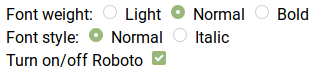
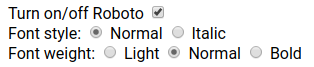
update font guide so @troldmand can follow :)

diff --git a/fonts/Roboto/index.html b/fonts/Roboto/index.html
@@ -52,6 +52,21 @@
 </head>
 <body>
 	<form>
+		<label>Turn on/off Roboto
+			<input type="checkbox" checked onclick="document.body.classList.toggle('serif')">
+		</label>
+
+		<div id="font-style">Font style:
+			<label>
+				<input type="radio" name="style" value="regular" checked>
+				Normal
+			</label>
+			<label>
+				<input type="radio" name="style" value="italic">
+				Italic
+			</label>
+		</div>
+
 		<div id="font-weight">Font weight:
 			<label>
 				<input type="radio" name="weight" value="light">
@@ -66,21 +81,6 @@
 				Bold
 			</label>
 		</div>
-
-		<div id="font-style">Font style:
-			<label>
-				<input type="radio" name="style" value="regular" checked>
-				Normal
-			</label>
-			<label>
-				<input type="radio" name="style" value="italic">
-				Italic
-			</label>
-		</div>
-
-		<label>Turn on/off Roboto
-			<input type="checkbox" checked onclick="document.body.classList.toggle('serif')">
-		</label>
 	</form>
 
 	<hr>

diff --git a/fonts/README.md b/fonts/README.md
@@ -17,7 +17,12 @@ First we need a _source_ font so we can build our web fonts.
 [Google Fonts](https://fonts.google.com/) is one of the most known places to
 download free fonts from, but a lot of others exist.
 
-This guide will focus on Google Fonts and the TrueType Font format (`.ttf`).
+> This guide will focus on Google Fonts and the TrueType Font format (`.ttf`).
+> Another format, called OpenType, is an extension to TrueType and everything in
+> this text regarding TrueType is interchangeable with OpenType.
+> That is, in this text everywhere it says TrueType,
+> you can apply it to OpenType as well.
+> https://docs.microsoft.com/typography/opentype/index
 
 After you have found your font, click on the small + circle and then on "Family
 Selected".
@@ -208,7 +213,7 @@ Even with only 3 different font weights for 1 font, we still have to download
 be displayed until it has loaded.
 
 What we need is a more compact format than TrueType (`.ttf`).
-The answer is `.woff`.
+The answer is Web Open Font Format (`.woff`).
 
 We can use an online webfont generator like
 [Font Squirrel](https://www.fontsquirrel.com/tools/webfont-generator)
@@ -227,7 +232,7 @@ need in our font and only work in US English.
 > just because a font feature exist, it does not mean that your font will
 > support that feature. You have to try and have a lot of patience.
 > We could set _Subsetting_ which would allow us to exclude Vietnamese
-> and Cyrillic. Of special interest
+> and Cyrillic from Roboto. Of special interest
 > is `Tabular Numerals` which is the numbers specially designed to have equal
 > width when next to each other - think a counter where you don't want the numbers
 > to jump to the left and right as they change.
@@ -240,5 +245,32 @@ Unzip the files to `fonts/myfont/web/`.
 
 
 ## Web
+
+[Web Open Font Format (`.woff`)](https://en.wikipedia.org/wiki/Web_Open_Font_Format).
+
+`fonts/myfont/web/stylesheet.css` contains very similar CSS as our
+`fonts/myfont/fonts.css`.
+
+```css
+@font-face {
+    font-family: 'robotolight';
+    src: url('roboto-light.woff2') format('woff2'),
+         url('roboto-light.woff') format('woff');
+    font-weight: normal;
+    font-style: normal;
+
+}
+```
+_Font Squirrel can not recognize italic `font-style` or `font-weight`.
+Not even the `font-family` name is correct. This highlight a big problem with
+fonts - there is very little that can be automated. We have to manually verify
+the correctness of our fonts and manually setup our font usage in CSS._
+
+Font Squirrel did get the file path correct and have encoded our TrueType files
+to Web Open Font Format (WOFF) files.
+
+With `.woff` and `.woff2` we save several kilo bytes.
+`Roboto-Regular.ttf` went from 168KB to 92KB and 65KB, for `.woff` and `.woff2`.
+Not all browsers support `.woff2` so we need to serve both.
 
 
